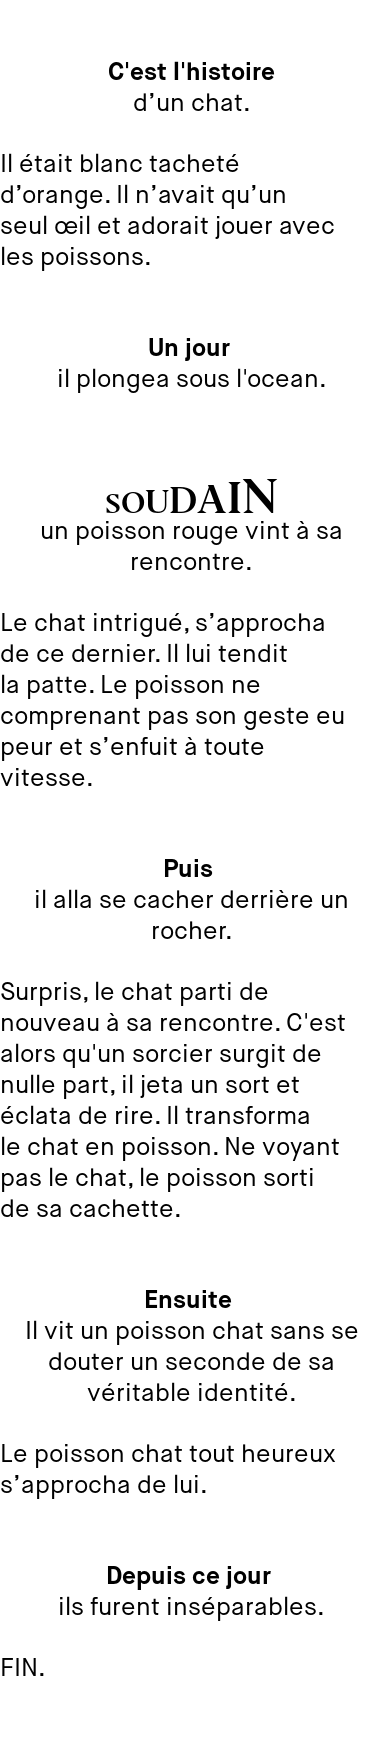
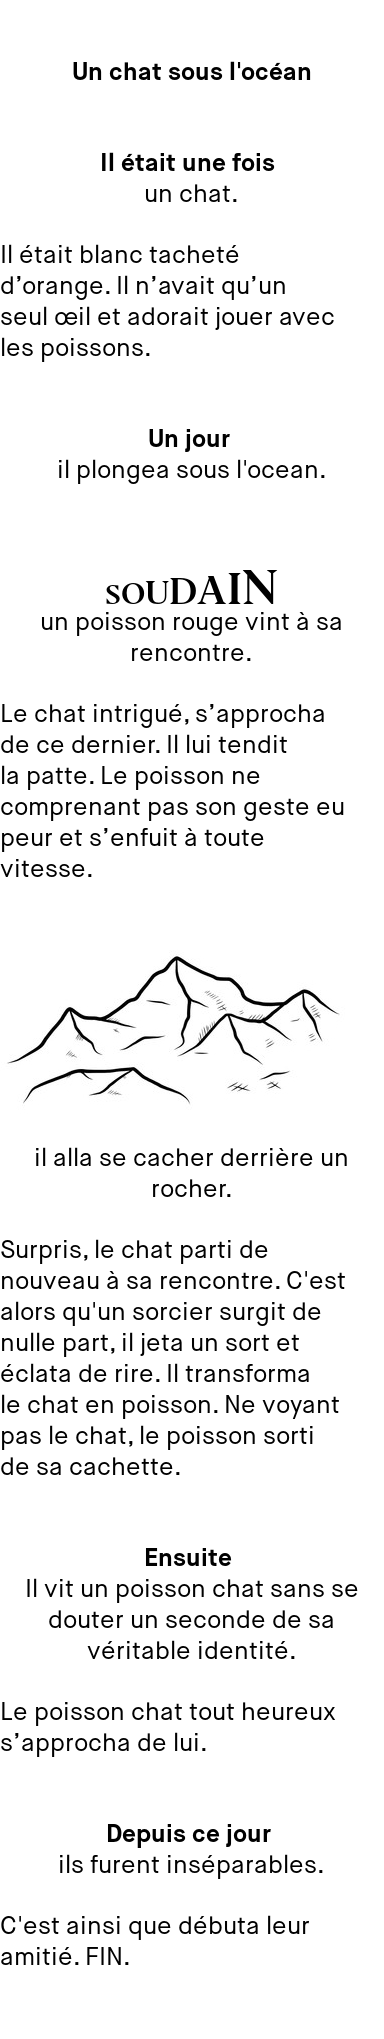
style(global) : add title and refacto

diff --git a/storydesign.py b/storydesign.py
@@ -4,6 +4,7 @@
 from PIL import Image, ImageDraw, ImageFont
 import textwrap
 import sys
+import effects
 
 if sys.version[0] == '2':
     reload(sys)
@@ -19,10 +20,7 @@ class StoryDesign():
          self.bg_color = "#FFF"
          self.font_size = 25
          self.text_color = "#000"
-    
-    def text_in_img(self, title, story):
-        # highlight words
-        custom_words = [
+         self.custom_words = [
             "Il était une fois",
             "C'est l'histoire",
             "Il y a bien longtemps",
@@ -39,7 +37,9 @@ class StoryDesign():
             "Depuis ce jour",
             "Désormais"
         ]
-        
+    
+    def text_in_img(self, title, story):
+
         # fonts
         editor_bold = 'assets/fonts/Editor/Editor-Bold.ttf'
         maison_neue_book = 'assets/fonts/Maison-Neue/Maison Neue Book.otf'
@@ -52,97 +52,67 @@ class StoryDesign():
         # multiline_text : text wrap
         self.text = story
         story_parts = story.split("@"); # detect new part of the story
-        nb_lines = 0
-        nb_parts = 0
-        images_height = 0
         
-        for story_part in story_parts: # nb parts
-        
-            # detect custom words
-            for expression in custom_words:
-                begin = story_part.find(expression)
-                if begin >= 0: #has the expression
-                    end = begin + len(expression)
-                    
-                    start_sentence = story_part[begin:end + 1].strip() # custom words
-                    if start_sentence.find(","): start_sentence = start_sentence[0:len(start_sentence) - 1] #suctract ,
-                    
-                    # get the images height for drawImage
-##                    if start_sentence == "Quelques heures plus tard":
-##                        img_height = self.add_image("assets/img/mountains.jpg", False)
-##                        images_height += img_height
-                        
-                    #rest of the sentence
-                    end_sentence = story_part[end + 1:len(story_part)].strip()
-                    
-                    # has a custom word in the previous end_send that has a custom word
-                    for expression in custom_words:
-                        if end_sentence.find(expression) >= 0: # if end_entence contain à custom word : cut
-                            end_twice = end_sentence.find(expression)
-                            end_sentence = end_sentence[0:end_twice].strip()
-                            rest_end_sentence = textwrap.wrap(end_sentence, width=30)
-                            nb_lines += len(rest_end_sentence)
-                            break
-                    
-                    # get the first sentence
-                    index_end_first_sentence = end_sentence.find('.', 0, len(end_sentence))
-                    first_sentence = end_sentence[0:index_end_first_sentence + 1]
-                    rest_sentences = end_sentence[index_end_first_sentence + 1:len(end_sentence)].strip()
-                    
-                    first_story_lines = textwrap.wrap(first_sentence, width=30)
-                    rest_story_lines = textwrap.wrap(rest_sentences, width=30)
-                    
-                    nb_lines += len(first_story_lines)
-                    nb_lines += len(rest_story_lines)
-            nb_lines += 1
-            nb_parts += 1
-            
-        font_width, font_height = text_maison_neue_book.getsize(self.text)
+        # init story params
         top = 0
+        title_margin_bottom = 60
+        font_width, font_height = text_maison_neue_book.getsize(self.text)
         spacing = font_height + 5
         before_part = bottom = 60
         after_part = 30
         
-        height = top + nb_lines * spacing + nb_parts * before_part + nb_parts * after_part + images_height + bottom
-        print height
+        height = effects.get_img_height(self.custom_words, title, story_parts, top, spacing, title_margin_bottom, before_part, after_part, bottom)
         img = Image.new('L', (self.width, height), self.bg_color)
         context = ImageDraw.Draw(img) #create a drawing context
         
         
-        # start to draw in the context 
+        # start to draw in the context
+        
+        # draw title
+        title_lines = textwrap.wrap(title, width=30)
+        for title_line in title_lines:
+            custom_width, custom_height = text_maison_neue_bold.getsize(title_line) # get text width
+            center_left = (self.width - custom_width) / 2; # center text
+            top += before_part #space before part
+            context.text((center_left,top), title_line, fill=self.text_color, font=text_maison_neue_bold)
+            top += spacing
+            
 		
 	for story_part in story_parts:
 	    story_lines = textwrap.wrap(story_part, width=30)
 	    
 	    
 	    # detect custom words
-            for expression in custom_words:
+            for expression in self.custom_words:
                 begin = story_part.find(expression)
                 if begin >= 0: #has the expression
                     end = begin + len(expression)
                     
                     # custom words 
                     start_sentence = story_part[begin:end + 1].strip() # space before @
-                    print start_sentence
                     custom_width, custom_height = text_maison_neue_bold.getsize(start_sentence) # get text width
                     center_left = (self.width - custom_width) / 2; # center text
-                    top += before_part #space before part
+                    top += title_margin_bottom #space before part
                     
                     #TODO : Check if have a custom word in this paragraph
                     if start_sentence.find(",") >= 0:
                         start_sentence = start_sentence[0:len(start_sentence) - 1] #suctract ,
+                        
+                    # fonction mirrot effect
+                    #if start_sentence == "Il était une fois":
+                        
                        
                     # fonction to increase text in uppercase
                     if start_sentence == "Tout à coup" or start_sentence == 'Soudain':
-                        custom_width = self.increase_font(context, start_sentence, editor_bold, 25, top)
+                        custom_width = effects.increase_font(context, start_sentence, editor_bold, 25, self.text_color, top)
                         center_left = (self.width - custom_width) / 2;
-                        self.increase_font(context, start_sentence, editor_bold, 25, top, center_left)
+                        effects.increase_font(context, start_sentence, editor_bold, 25, self.text_color, top, center_left)
                         
-##                    elif start_sentence == "Quelques heures plus tard":
-##                        
-##                        # create fonction to load img
-##                        img_height = self.add_image("assets/img/mountains.jpg", True, top, img)
-##                        top += img_height
+                    elif start_sentence == "Puis":
+                        
+                        # create fonction to load img
+                        img_height = effects.add_image("assets/img/mountains.jpg", True, top, img)
+                        top += img_height
                         
                     else :
                         context.text((center_left,top), start_sentence, fill=self.text_color, font=text_maison_neue_bold)
@@ -153,7 +123,7 @@ class StoryDesign():
                     
                     # TODO : case if there three custom words
                     # has a custom word in the previous end_send that has a custom word
-                    for expression in custom_words:
+                    for expression in self.custom_words:
                         if end_sentence.find(expression) >= 0: # if end_entence contain à custom word : cut
                             end_twice = end_sentence.find(expression)
                             end_sentence = end_sentence[0:end_twice].strip()
@@ -183,31 +153,4 @@ class StoryDesign():
         
         del context # destroy drawing context
         img.save(self.filename + self.fileformat, "PNG")
-        
-    
-    def increase_font(self, context, custom_word, font, font_size, top, left = 0):
-        
-        custom_word = custom_word.upper()
-        word_letters = list(custom_word)
-        increase_top = top
-        center_left = left
-        for letter in word_letters:
-            text_font = ImageFont.truetype(font, font_size, encoding="unic")
-            letter_width, letter_height = text_font.getsize(letter) # redo after uppercase center text
-            if center_left != 0: # draw only if left is not null
-                context.text((left,increase_top), letter, fill=self.text_color, font=text_font)
-            left += letter_width
-            increase_top -= int(round(font_size * .1))
-            font_size += int(round(font_size * .1))
-            
-        return left #return the width
-    
-    
-    
-    def add_image(self, url, add, top = 0, img_bg = False):
-        custom_img = Image.open(url)
-        if add == True : img_bg.paste(custom_img, (0, top))
-        img_width, img_height = custom_img.size
-        
-        return img_height
      

diff --git a/effects.py b/effects.py
@@ -1,0 +1,86 @@
+#!/usr/bin/env python
+# coding: utf8
+
+from PIL import Image, ImageFont
+import textwrap
+
+def get_img_height(custom_words, title, story_parts, top, spacing, title_margin_bottom, before_part, after_part, bottom):
+        
+    nb_lines = 0
+    nb_parts = 0
+    images_height = 0
+        
+    # height according the title
+    title_lines = textwrap.wrap(title, width=30)
+    nb_lines += len(title_lines)
+        
+    for story_part in story_parts: # nb parts
+    
+        # detect custom words
+        for expression in custom_words:
+            begin = story_part.find(expression)
+            if begin >= 0: #has the expression
+                end = begin + len(expression)
+                    
+                start_sentence = story_part[begin:end + 1].strip() # custom words
+                if start_sentence.find(","): start_sentence = start_sentence[0:len(start_sentence) - 1] #suctract ,
+                    
+                # get the images height for drawImage
+                if start_sentence == "Puis":
+                    img_height = add_image("assets/img/mountains.jpg", False)
+                    images_height += img_height
+                        
+                #rest of the sentence
+                end_sentence = story_part[end + 1:len(story_part)].strip()
+                    
+                # has a custom word in the previous end_send that has a custom word
+                for expression in custom_words:
+                    if end_sentence.find(expression) >= 0: # if end_entence contain à custom word : cut
+                        end_twice = end_sentence.find(expression)
+                        end_sentence = end_sentence[0:end_twice].strip()
+                        rest_end_sentence = textwrap.wrap(end_sentence, width=30)
+                        nb_lines += len(rest_end_sentence)
+                        break
+                    
+                # get the first sentence
+                index_end_first_sentence = end_sentence.find('.', 0, len(end_sentence))
+                first_sentence = end_sentence[0:index_end_first_sentence + 1]
+                rest_sentences = end_sentence[index_end_first_sentence + 1:len(end_sentence)].strip()
+                    
+                first_story_lines = textwrap.wrap(first_sentence, width=30)
+                rest_story_lines = textwrap.wrap(rest_sentences, width=30)
+                    
+                nb_lines += len(first_story_lines)
+                nb_lines += len(rest_story_lines)
+        nb_lines += 1
+        nb_parts += 1
+            
+    height = top + title_margin_bottom + nb_lines * spacing + nb_parts * before_part + nb_parts * after_part + images_height + bottom
+    return height
+            
+    
+def increase_font(context, custom_word, font, font_size, text_color, top, left = 0):
+        
+    custom_word = custom_word.upper()
+    word_letters = list(custom_word)
+    increase_top = top
+    center_left = left
+    for letter in word_letters:
+        text_font = ImageFont.truetype(font, font_size, encoding="unic")
+        letter_width, letter_height = text_font.getsize(letter) # redo after uppercase center text
+        if center_left != 0: # draw only if left is not null
+            context.text((left,increase_top), letter, fill=text_color, font=text_font)
+        left += letter_width
+        increase_top -= int(round(font_size * .1))
+        font_size += int(round(font_size * .1))
+            
+    return left #return the width
+    
+    
+    
+def add_image(url, add, top = 0, img_bg = False):
+    custom_img = Image.open(url)
+    if add == True : img_bg.paste(custom_img, (0, top))
+    img_width, img_height = custom_img.size
+        
+    return img_height

diff --git a/webserver.py b/webserver.py
@@ -61,7 +61,7 @@ def run(server_class=HTTPServer, handler_class=Server):
         filename = paper.filename
         fileformat = paper.fileformat
         title = "Un chat sous l'océan"
-        story = "C'est l'histoire d’un chat. Il était blanc tacheté d’orange. Il n’avait qu’un seul œil et adorait jouer avec les poissons. Un jour, il plongea sous l'ocean.@Soudain, un poisson rouge vint à sa rencontre. Le chat intrigué, s’approcha de ce dernier. Il lui tendit la patte. Le poisson ne comprenant pas son geste eu peur et s’enfuit à toute vitesse.@Puis, il alla se cacher derrière un rocher. Surpris, le chat parti de nouveau à sa rencontre. C'est alors qu'un sorcier surgit de nulle part, il jeta un sort et éclata de rire. Il transforma le chat en poisson. Ne voyant pas le chat, le poisson sorti de sa cachette.@Ensuite, Il vit un poisson chat sans se douter un seconde de sa véritable identité. Le poisson chat tout heureux s’approcha de lui.@Depuis ce jour, ils furent inséparables. FIN."    
+        story = "Il était une fois, un chat. Il était blanc tacheté d’orange. Il n’avait qu’un seul œil et adorait jouer avec les poissons. Un jour, il plongea sous l'ocean.@Soudain, un poisson rouge vint à sa rencontre. Le chat intrigué, s’approcha de ce dernier. Il lui tendit la patte. Le poisson ne comprenant pas son geste eu peur et s’enfuit à toute vitesse.@Puis, il alla se cacher derrière un rocher. Surpris, le chat parti de nouveau à sa rencontre. C'est alors qu'un sorcier surgit de nulle part, il jeta un sort et éclata de rire. Il transforma le chat en poisson. Ne voyant pas le chat, le poisson sorti de sa cachette.@Ensuite, Il vit un poisson chat sans se douter un seconde de sa véritable identité. Le poisson chat tout heureux s’approcha de lui.@Depuis ce jour, ils furent inséparables. C'est ainsi que débuta leur amitié. FIN."    
         paper.text_in_img(unicode(title, 'UTF8'), unicode(story, 'UTF8'))
         #print story
         
